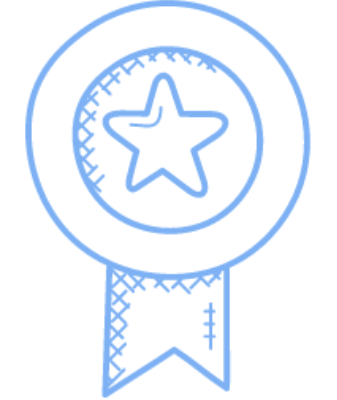
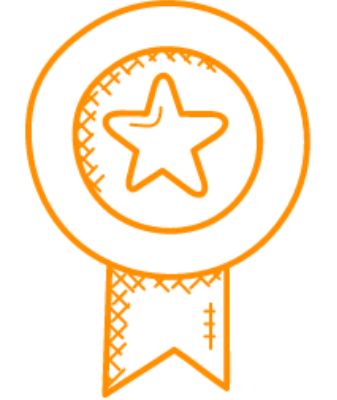
changed fundraiser badge color to orange

Changed region(s): [[0.0593, 0.0, 0.9199, 1.0], [0.2077, 0.09, 0.8012, 0.6]]

diff --git a/vr-funding/src/components/dashboard/FindFunder.jsx b/vr-funding/src/components/dashboard/FindFunder.jsx
@@ -11,7 +11,7 @@ const useStyles = makeStyles((theme) => ({
   root: {
     maxWidth: 345,
     height: "125px",
-    width: "400px",
+    width: "375px",
     margin: "10px",
     textAlign: "center",
     padding: '40px 20px',
